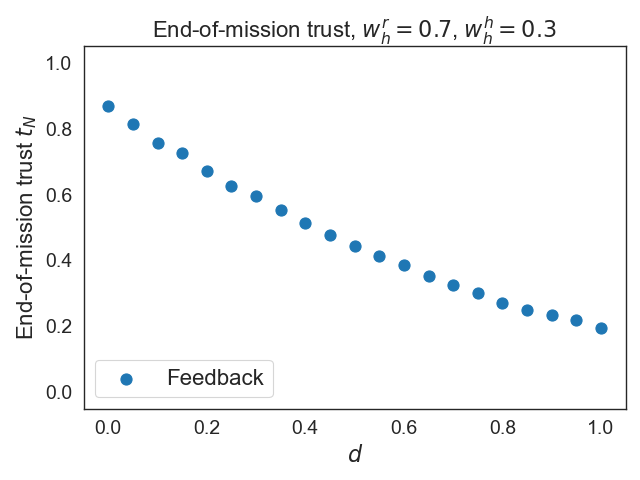
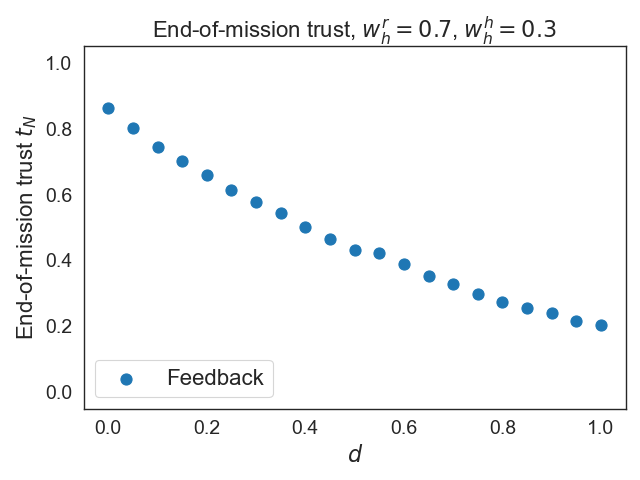
200 simulation images

diff --git a/effect-of-value-alignment-code/final-code/plots-for-paper/adaptive/weight.py b/effect-of-value-alignment-code/final-code/plots-for-paper/adaptive/weight.py
@@ -75,7 +75,7 @@ def analyze(parent_directory: str, threat_level: float):
 
 def main():
     parent_directory = os.path.join('..', '..', 'varying-weights', 'data', 'BoundedRational', 'Adaptive')
-    threat_level = 0.7
+    threat_level = 0.3
     analyze(parent_directory, threat_level)
 
 

diff --git a/effect-of-value-alignment-code/final-code/plots-for-paper/adaptive/threat.py b/effect-of-value-alignment-code/final-code/plots-for-paper/adaptive/threat.py
@@ -73,7 +73,7 @@ def analyze(parent_directory: str, wh_hum: float):
 
 def main():
     parent_directory = os.path.join('..', '..', 'varying-threat-level', 'data', 'BoundedRational', 'Adaptive')
-    wh_hum = 0.7
+    wh_hum = 0.3
     analyze(parent_directory, wh_hum)
 
 
